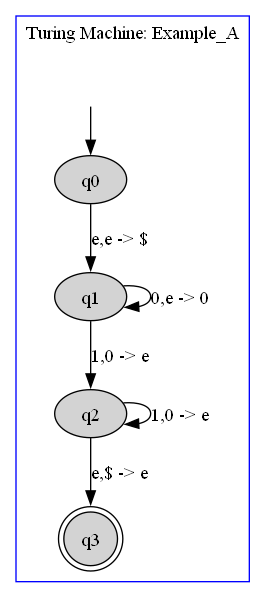
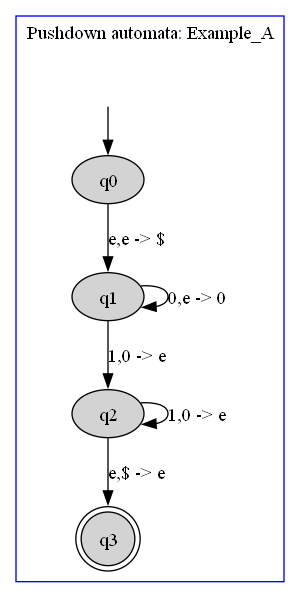
.

diff --git a/PA/automataexecution.cpp b/PA/automataexecution.cpp
@@ -135,7 +135,7 @@ std::string AutomataExecution::produce_content_of_draw()
     std::string content = "digraph G {\n";
     content += "\tsubgraph cluster_1 {\n";
     content += "\t\tnode [style=filled];\n";
-    content += "\t\tlabel = \"Turing Machine: "+this->automataInstance.nameOfAutomata+"\"\n"
+    content += "\t\tlabel = \"Pushdown automata: "+this->automataInstance.nameOfAutomata+"\"\n"
         "\t\tcolor=blue;\n"
         "\n";
 
@@ -273,7 +273,7 @@ std::string AutomataExecution::produce_content_of_draw_considering_input
 
     content += "\tsubgraph cluster_1 {\n";
     content += "\t\tnode [style=filled];\n";
-    content += "\t\tlabel = \"Pushdown automata: "+message+"\"\n"
+    content += "\t\tlabel = \"Pushdown automata: "+this->automataInstance.nameOfAutomata+"\n"+message+"\"\n"
         "\t\tcolor=blue;\n"
         "\n";
 
